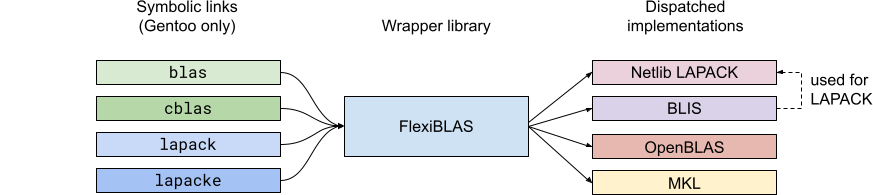
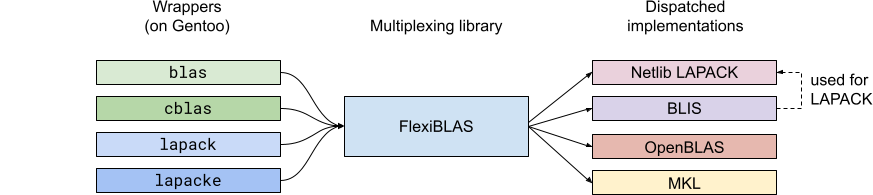
Update Gentoo to say "wrappers"
The situation in Gentoo is developing, and we're currently experimenting
with backwards compatibility wrappers rather than symlinks.  Either way,
"wrappers" should be a more generic term.

Changed region(s): [[0.4021, 0.0923, 0.5876, 0.1846], [0.1546, 0.0923, 0.2784, 0.1846], [0.1546, 0.0, 0.2784, 0.0615]]

diff --git a/apps/labs/posts/blas-lapack-packaging.md b/apps/labs/posts/blas-lapack-packaging.md
@@ -291,9 +291,9 @@ to use `-reference` suffixes (for example, `lapack64-reference`).
 <figure style={{width: 'auto', margin: '0 2em', display: 'inline-block', verticalAlign: 'top'}}>
   <img src="/posts/blas-lapack-packaging/flexiblas.png"
     width="873" height="195" alt="A diagram illustrating using FlexiBLAS.
-    First, on Gentoo there are four symbolic links for blas, cblas,
+    First, on Gentoo there are four wrappers for blas, cblas,
     lapack and lapacke libraries. These all link to the FlexiBLAS
-    wrapper library. FlexiBLAS dispatches into the actual
+    multiplexing library. FlexiBLAS dispatches into the actual
     implementations, such as Netlib LAPACK, BLIS, OpenBLAS or MKL.
     It is noted that BLIS is combined with Netlib LAPACK implementation." />
   <figcaption>Fig. 4. The FlexiBLAS approach</figcaption>
@@ -322,8 +322,8 @@ overhead</q>.
 
 Again, there are some minor implementation differences between
 distributions. In Fedora, packages are built and linked directly
-to FlexiBLAS, while Gentoo is considering using a layer of symbolic
-links for backwards compatibility.
+to FlexiBLAS, while Gentoo is considering using a layer of wrappers
+for backwards compatibility.
 
 ## Summary
 
